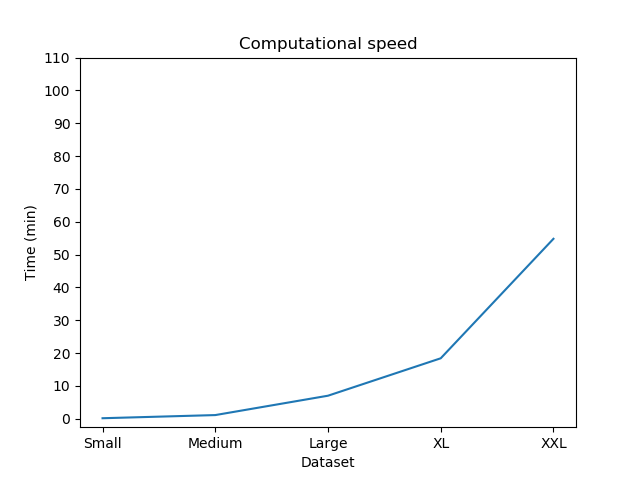
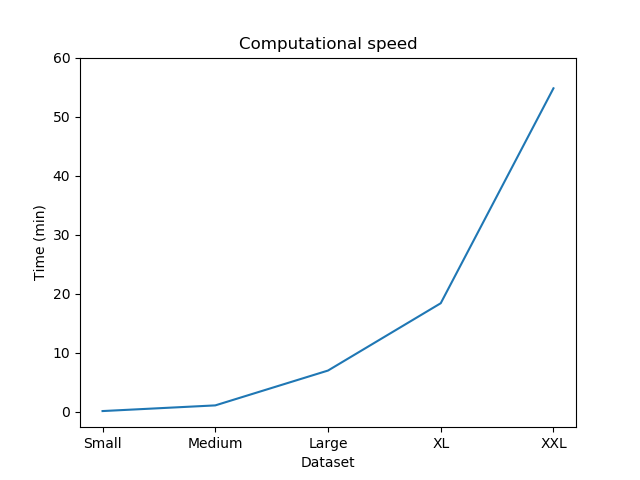
Adjusted plots slightly

diff --git a/Code/plots_label_prop.py b/Code/plots_label_prop.py
@@ -11,12 +11,12 @@ plt.xlabel('Dataset')
 plt.ylabel('Accuracy')
 plt.show()
 
-Time = [8, 375, 11816, 0, 0]
+Time = [0.13, 6.25, 196.93, 0, 0]
 
 plt.plot(Dataset, Time)
-plt.yticks(np.arange(0, 120, step=10))
+plt.yticks(np.arange(0, 1500, step=100))
 plt.title('Computational speed')
 plt.xlabel('Dataset')
-plt.ylabel('Time (s)')
+plt.ylabel('Time (min)')
 plt.show()
 

diff --git a/Code/plots_harmonic.py b/Code/plots_harmonic.py
@@ -5,7 +5,7 @@ Dataset = ["Small","Medium","Large","XL","XXL"]
 Accuracy = [0.383,0.296,0.218,0.294,0.350]
 
 plt.bar(Dataset, Accuracy)
-plt.yticks(np.arange(0, 1.2, step=0.2))
+plt.yticks(np.arange(0, 0.6, step=0.2))
 plt.title('Prediction accuracy')
 plt.xlabel('Dataset')
 plt.ylabel('Accuracy')

diff --git a/Code/plots_gcn.py b/Code/plots_gcn.py
@@ -14,7 +14,7 @@ plt.show()
 Time = [0.14, 1.1, 7.0, 18.4, 54.8]
 
 plt.plot(Dataset, Time)
-plt.yticks(np.arange(0, 120, step=10))
+plt.yticks(np.arange(0, 70, step=10))
 plt.title('Computational speed')
 plt.xlabel('Dataset')
 plt.ylabel('Time (min)')
